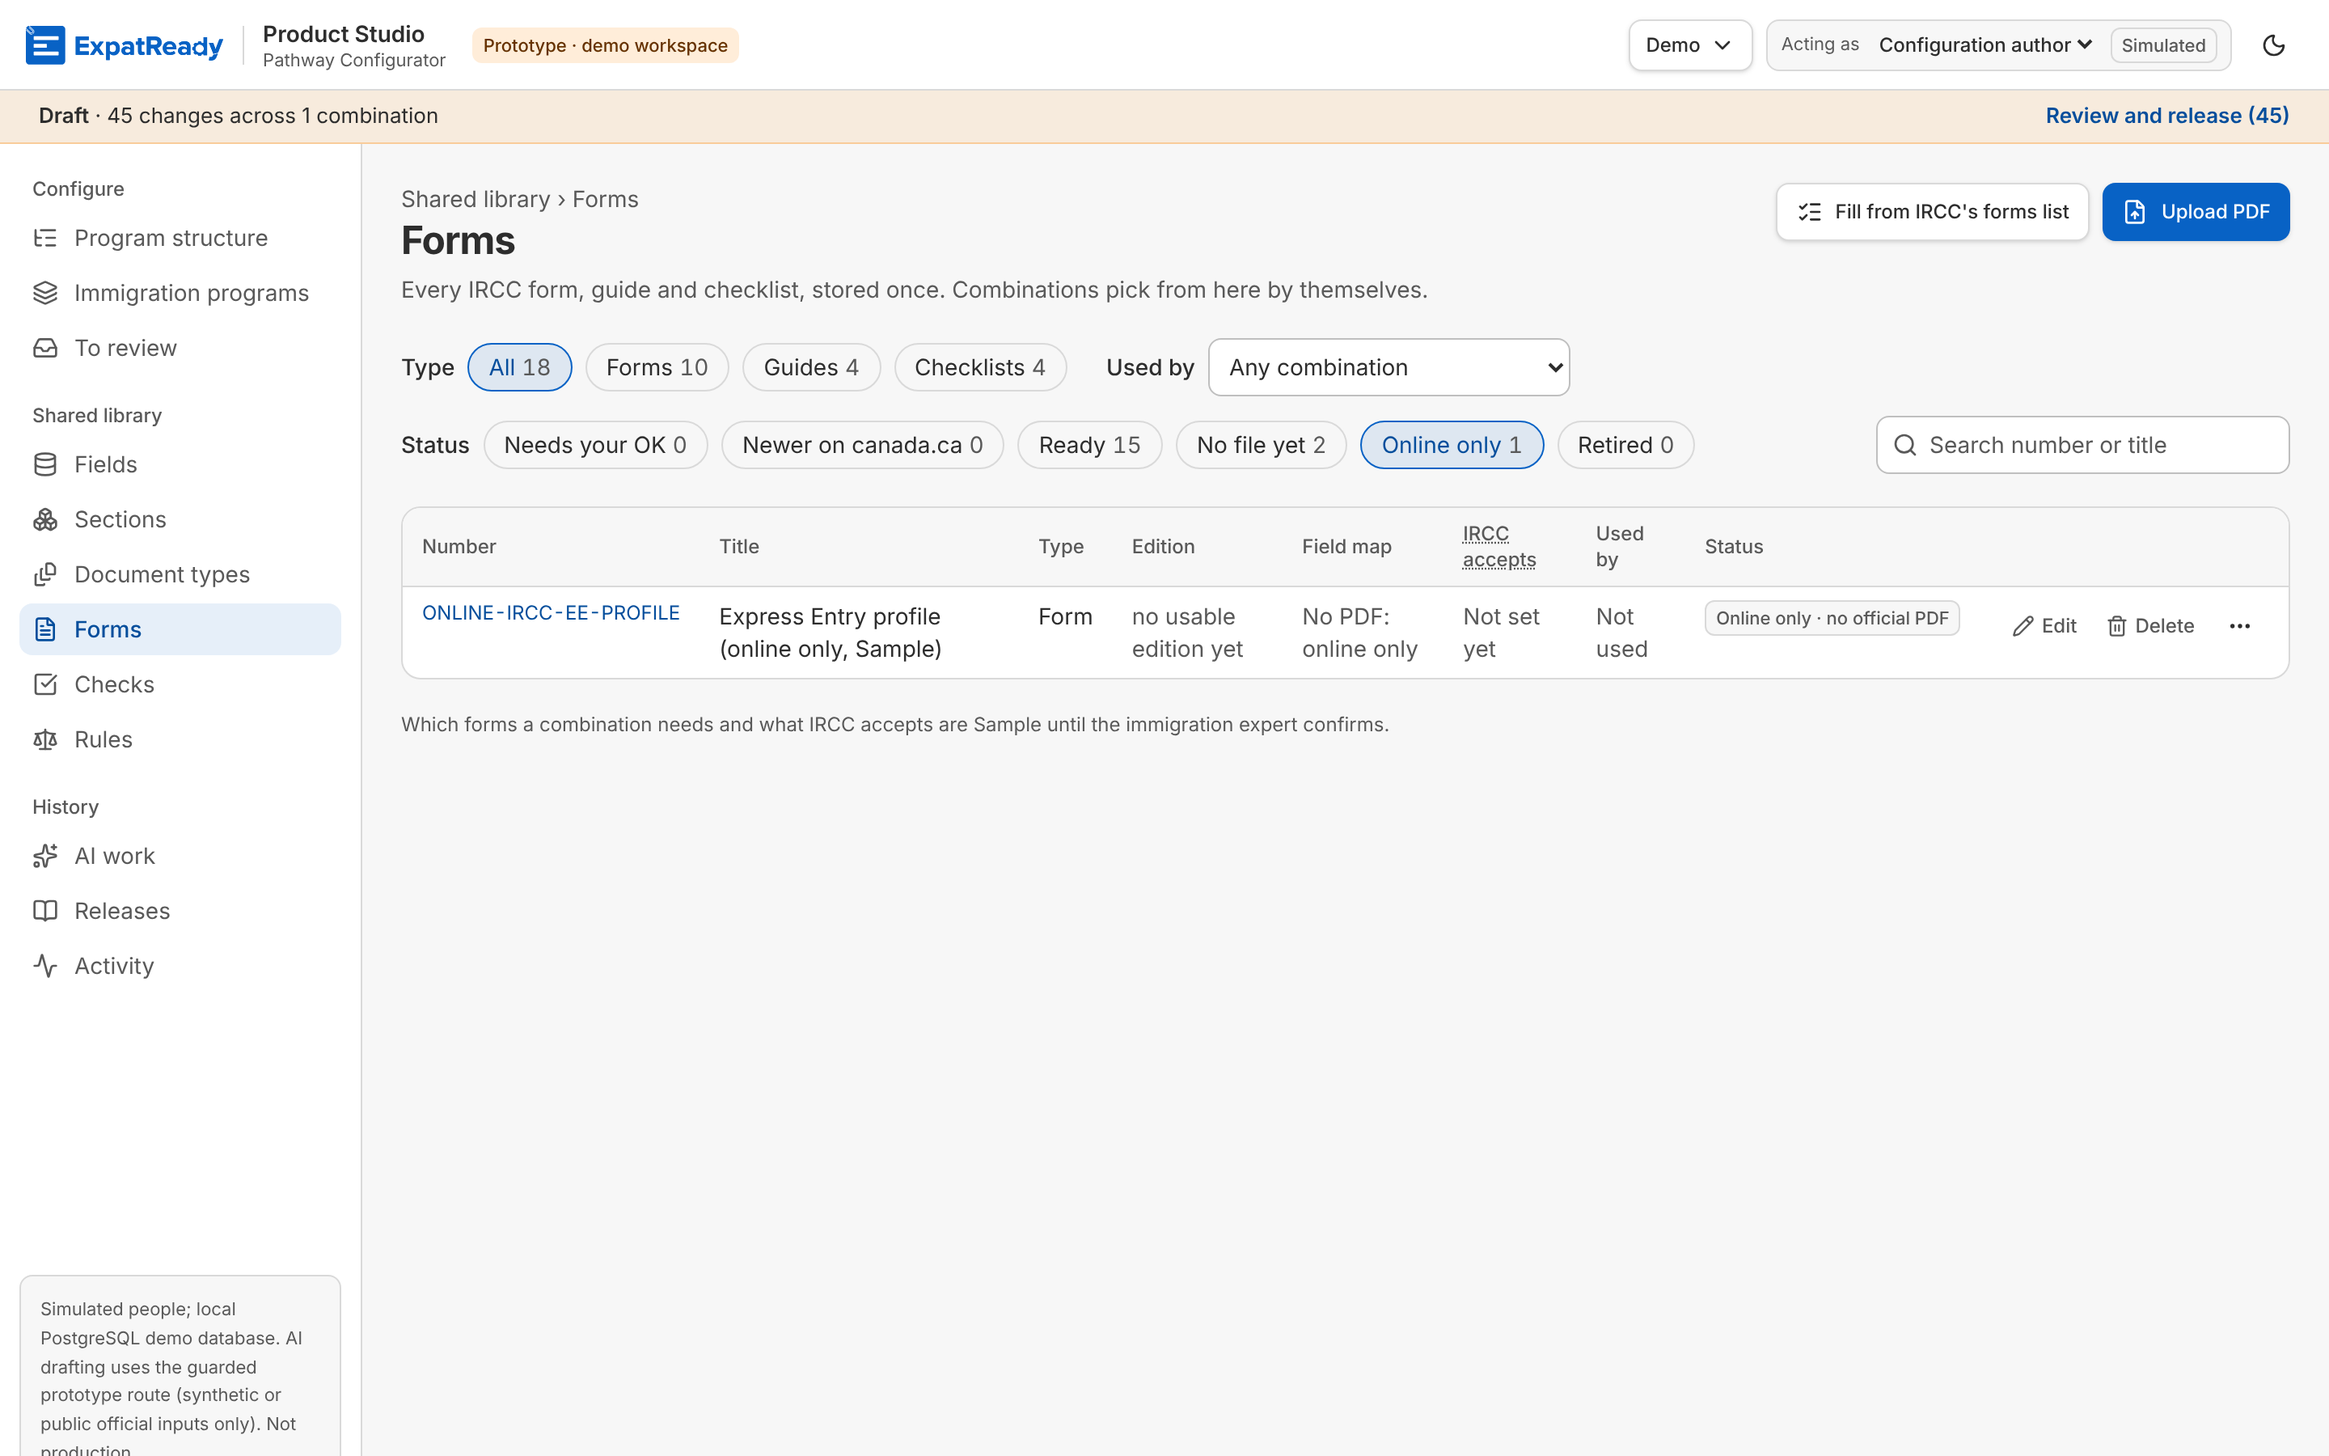
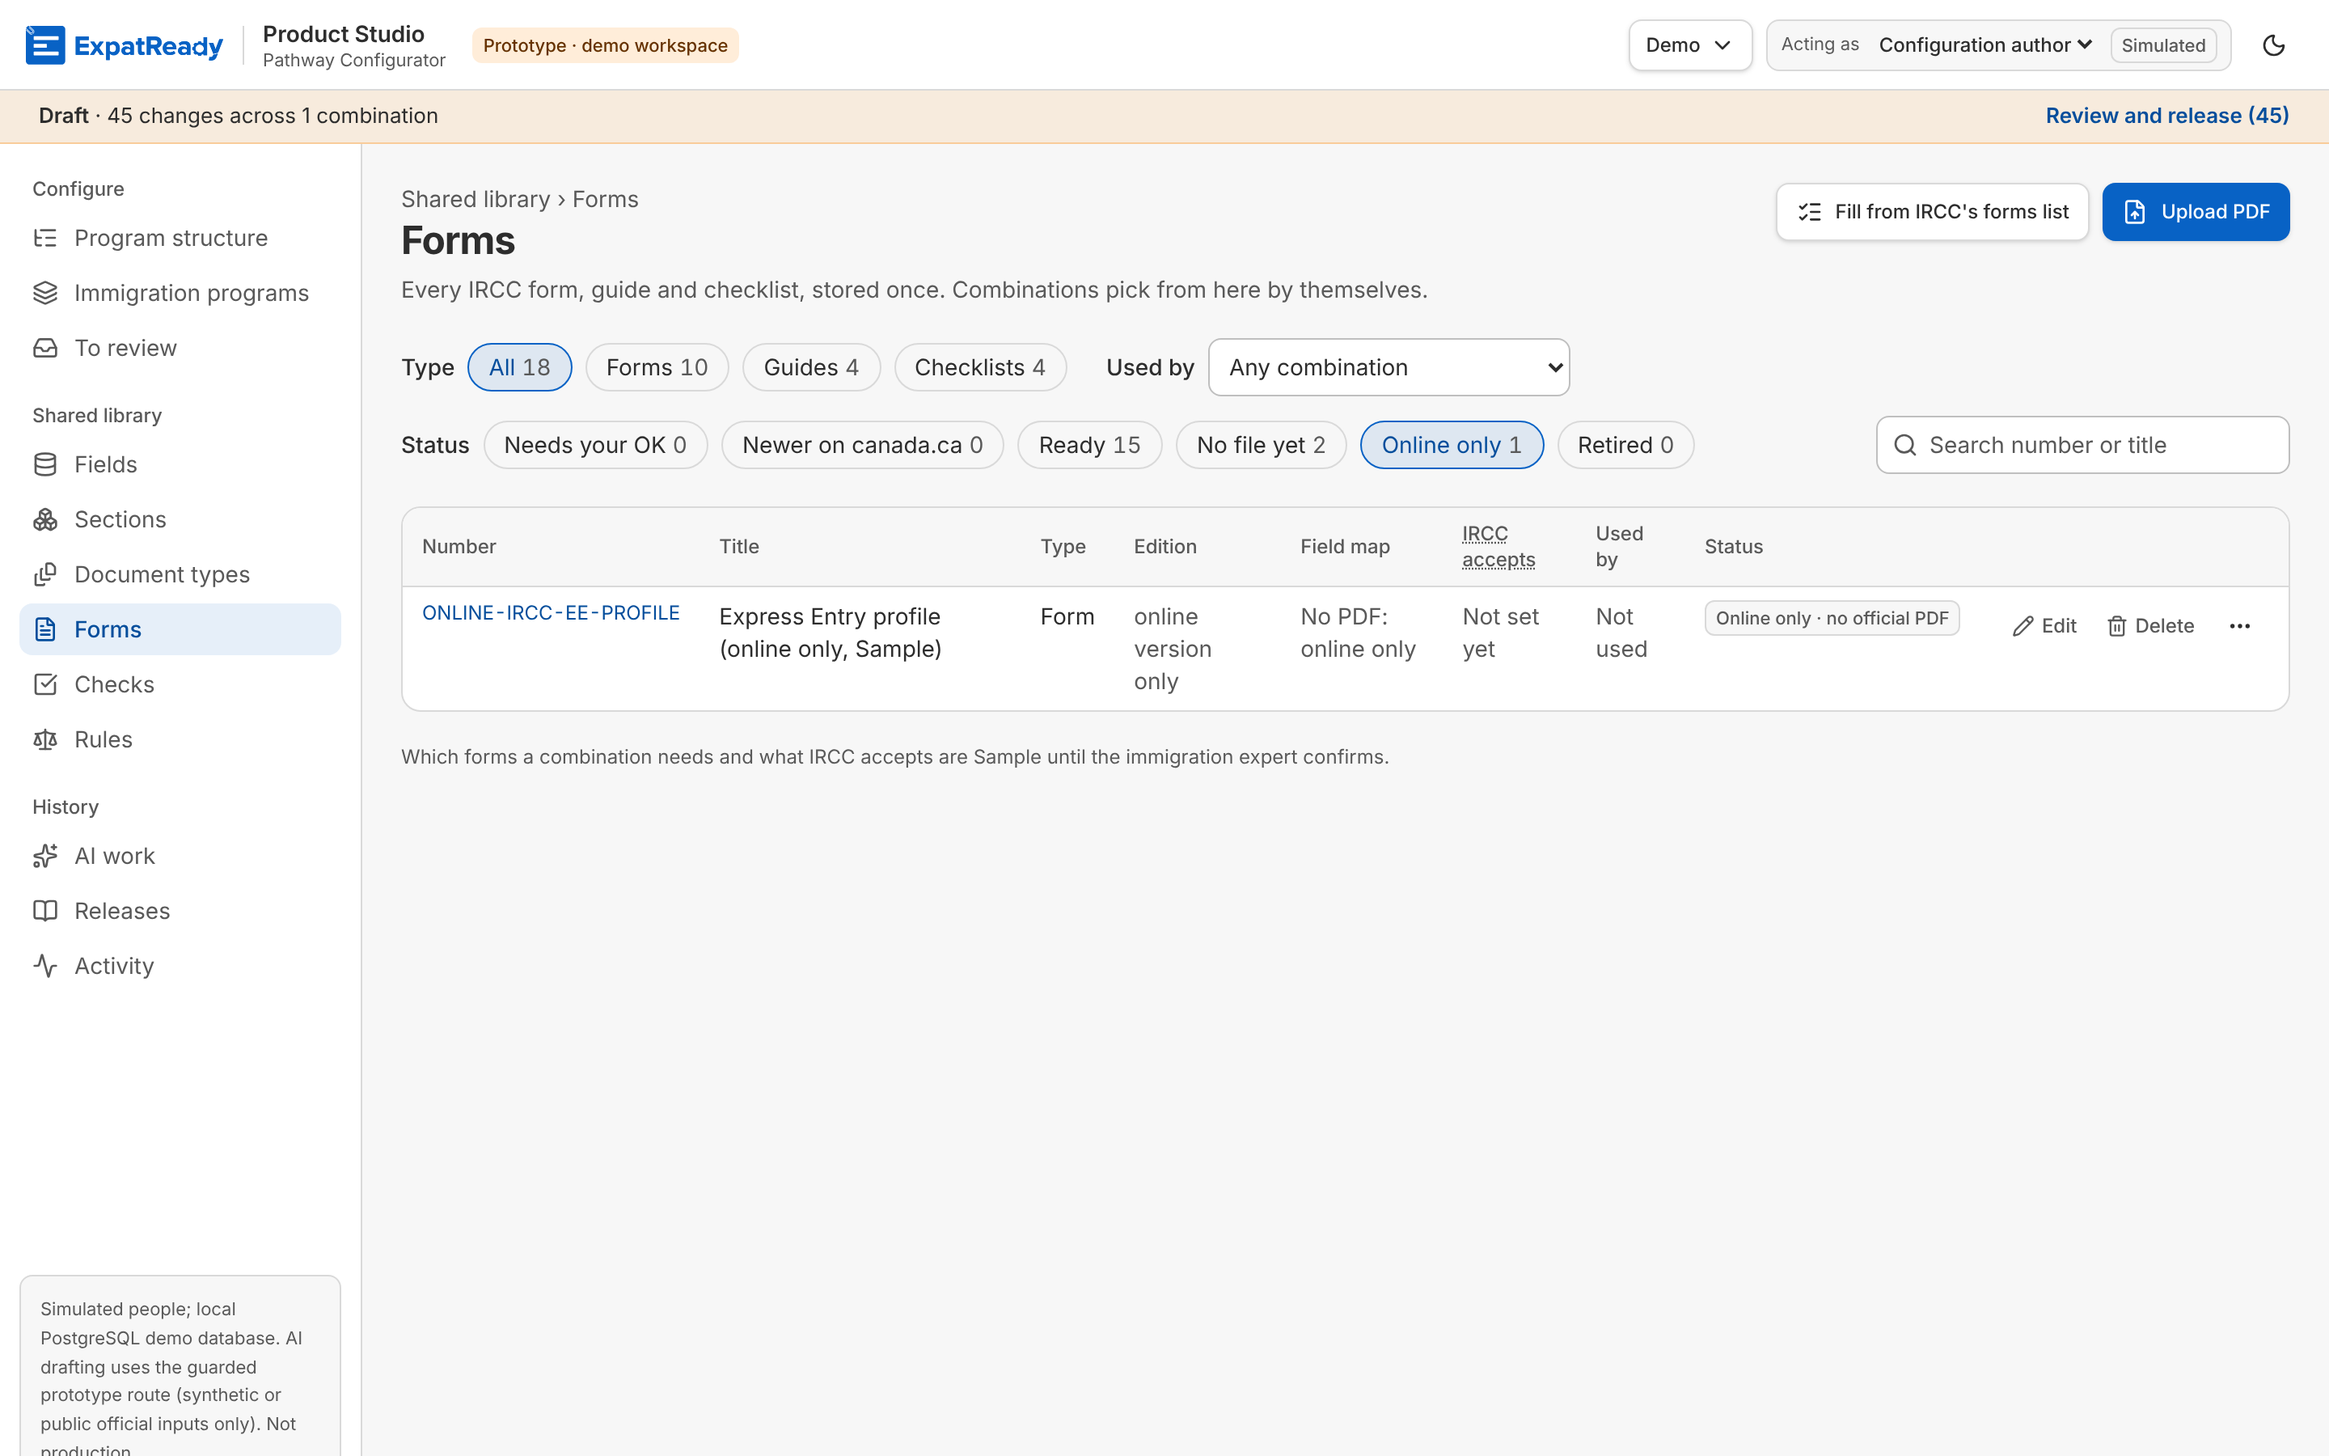
forms: C11.11 — review minors: bulk preview refuses a kept checklist line; online-only tips without a decision number or an uncited IRCC claim; screenshots retaken
Review (Approve on 577255c91) m1: the bulk preview said 'will add' for a guide or
checklist line kept from before, which apply then refused; libraryBlock now uses
the same rule (fail test in check_x2b_bulk_preview.ts: 66/67 without, 67/67 with).
m3: screenshots retaken on a fresh build ('online version only'). Wording: the
online-only tips no longer show P-152 and describe what the library holds.

Claude-Session: https://claude.ai/code/session_01MXNda75A1jSoynPHYKHZjG

Changed region(s): [[0.1875, 0.4044, 0.5938, 0.5289], [0.5625, 0.3733, 0.625, 0.4667], [0.4375, 0.3733, 0.4688, 0.4356]]

diff --git a/ai-workers/problem-1-pathway-setup-and-form-filling/prototype/studio/tests/check_x2b_bulk_preview.ts b/ai-workers/problem-1-pathway-setup-and-form-filling/prototype/studio/tests/check_x2b_bulk_preview.ts
@@ -123,6 +123,14 @@ const PLAIN = (s: string) => !/\bP-\d+\b/.test(s) && !/\b[a-z]+_[a-z_]+\b/.test(
   x = await outcomeOf(add(form("IMM 1295")), SV);
   ok("C1.5 BR-C1 retirement open fail: nothing new may use a form whose retirement waits on To review", x.o === "CANNOT_RETIRED" && /open on To review/.test(x.why), x.why);
   sql(`delete from library_change where key='IMM 1295' and action='RETIRE'`);
+  // C11.11 review m1: a checklist line kept from before (test input, SQL, Sample) is never offered as "will add": apply would
+  // refuse it (addFormLine), so the preview says why first; a filed form from the same source still will be added.
+  sql(`insert into combination_form select (jsonb_populate_record(null::combination_form, to_jsonb(cf) || jsonb_build_object('id', gen_random_uuid(), 'lineage_key', 'IMM 5488', 'gov_form_def_id', (select id from gov_form_def d where d.form_key='IMM 5488' and d.workspace_id=cf.workspace_id), 'version', 1, 'status', 'DRAFT', 'supersedes_id', null))).* from combination_form cf where cf.combination_id='${WP}' and cf.lineage_key='IMM 5707' order by cf.version desc limit 1`);
+  x = await outcomeOf(add(form("IMM 5488")), SV);
+  ok("C11.11 review m1 fail: copying a checklist line kept from before is 'Cannot', in words (read by AI and never filed)", x.o === "CANNOT_RETIRED" && /checklist: it is read by AI and never filed/.test(x.why) && !x.t.tickable, x.t);
+  sql(`delete from combination_form where combination_id='${WP}' and lineage_key='IMM 5488'`);
+  x = await outcomeOf(add(form("IMM 1295")), SV);
+  ok("C11.11 review m1 pass: a filed form from the same combination will still be added", x.o === "WILL_ADD", x.o);
 
   // waits: submitted for review
   sql(`insert into review_submission (id, workspace_id, combination_id, draft_sha256, submitted_by, status, change_summary) values (gen_random_uuid(), '${ws}', '${SV}', 'x2b-test', 'user-A', 'SUBMITTED', '[]')`);

diff --git a/ai-workers/problem-1-pathway-setup-and-form-filling/prototype/studio/api/src/lines-bulk.ts b/ai-workers/problem-1-pathway-setup-and-form-filling/prototype/studio/api/src/lines-bulk.ts
@@ -14,6 +14,7 @@ import { appliedWords, BulkApply, BulkPreview, copiedFromWords, CopyFromApply, C
 import { isBusy } from "./busy.ts";
 import { ACTORS, actorOf, Audit, Db, need, revise, strip, type Actor } from "./core.ts";
 import { addFormLine } from "./form-lines.ts";
+import { notFiledWords } from "../../engine/form-type.ts";
 import { closingChange, hasApprovedFile, lineSig, recordAction, snapshotLines, type LineRow } from "./form-uses.ts";
 
 type H = string | undefined;
@@ -424,7 +425,11 @@ export class LinesBulk {
   /** BR-C1 "cannot: retired": nothing new may use a form or document type that is retired, or whose retirement is open (P-116). */
   private async libraryBlock(db: Tx, workspaceId: string, line: SourceLine): Promise<string | null> {
     if (line.kind === "form") {
-      const def = await db.govFormDef.findUnique({ where: { workspaceId_formKey: { workspaceId, formKey: line.key } }, select: { retiredAt: true } });
+      const def = await db.govFormDef.findUnique({ where: { workspaceId_formKey: { workspaceId, formKey: line.key } }, select: { retiredAt: true, formKind: true, displayName: true } });
+      // C11.11 review m1: a guide or checklist line kept from before is never copied as a filed line (addFormLine refuses
+      // it at apply), so the preview says so first.
+      const notFiled = def ? notFiledWords(line.key, def.formKind, def.displayName) : null;
+      if (notFiled) return notFiled;
       if (def?.retiredAt) return `${line.key} is retired in the library: restore it there first.`;
       const closing = await closingChange(db, workspaceId, line.key);
       return closing ? `A request to ${closing.action.toLowerCase()} ${line.key} is open on To review: nothing new may use it until it is decided.` : null;

diff --git a/ai-workers/problem-1-pathway-setup-and-form-filling/prototype/studio/web/src/pages/library-forms.tsx b/ai-workers/problem-1-pathway-setup-and-form-filling/prototype/studio/web/src/pages/library-forms.tsx
@@ -62,7 +62,7 @@ const STATUS: Record<Row["status"], { word: string; tone: string; tip: string }>
   needs_ok: { word: "Needs your OK", tone: "warn", tip: "A file of this form waits for a second person on To review (a hand upload, or a newer edition to review)." },
   newer_file: { word: "Newer file on canada.ca", tone: "warn", tip: "canada.ca now serves another file of the same printed edition. Combinations keep using the library's file until a person replaces it." },
   no_file: { word: "No file yet", tone: "neutral", tip: "No edition of this form is in the library yet: upload its PDF, or let the form finder download it from canada.ca." },
-  online_only: { word: "Online only · no official PDF", tone: "neutral", tip: "IRCC publishes no PDF of this form: it is held as its online version, and its questions come from IRCC's help pages or saved portal screens (P-152). No PDF is asked for." },
+  online_only: { word: "Online only · no official PDF", tone: "neutral", tip: "This form is held only as its online version, with no official PDF: its questions come from IRCC's help pages or saved portal screens. No PDF is asked for." },
   retired: { word: "Retired", tone: "neutral", tip: "Hidden from pickers and AI; released versions and open cases keep it. Restore it to use it again." },
 };
 /** X5 (P-156 (1)): the words of a row filled from IRCC's forms list, beside the usual ones. */

diff --git a/ai-workers/problem-1-pathway-setup-and-form-filling/prototype/studio/api/src/form-library.ts b/ai-workers/problem-1-pathway-setup-and-form-filling/prototype/studio/api/src/form-library.ts
@@ -41,7 +41,7 @@ const nameOf = (id: string) => ACTORS.find((a) => a.id === id)?.name ?? "another
 const TYPE_OF = libraryType;
 /** P-152 (2): the flag a form held only online carries in the library, in the founder's words. */
 const ONLINE_ONLY_WORDS = "Online only · no official PDF";
-const ONLINE_ONLY_FIELD_MAP = { kind: "no_edition" as const, decided: 0, total: 0, words: "No PDF: online only", tip: "This form is held only as its online version, with no official PDF: its questions come from IRCC's help pages or saved portal screens (P-152), not from a PDF." };
+const ONLINE_ONLY_FIELD_MAP = { kind: "no_edition" as const, decided: 0, total: 0, words: "No PDF: online only", tip: "This form is held only as its online version, with no official PDF: its field map is drafted from IRCC's help pages or saved portal screens, not from a PDF." };
 
 /** P-143 (C-3): a form's records of what IRCC accepts, per IRCC account, for the Form library row (ANY first). A guide
  *  or checklist is read by AI and never filed. */

diff --git a/ai-workers/problem-1-pathway-setup-and-form-filling/product/screens/C11.11/review.md b/ai-workers/problem-1-pathway-setup-and-form-filling/product/screens/C11.11/review.md
@@ -1,0 +1,37 @@
+# C11.11 review (forms lane): checklists never filed, online-only status
+
+Reviewed commit: **577255c91** (branch claude/epic-wright-62f5h5). It is 959714a67 plus two screenshots; `git diff 959714a67 577255c91` has no code change, so the code review of 959714a67 stands. Base origin/main 877acf66a.
+
+Verdict: **Approve** (no Blocker, no Major; two Minors and a screenshot note below).
+
+## What I ran (isolated copy, port 4454, live AI off, US$0)
+- `acceptance/C11.11.test.ts`: 26 passed, 0 failed. `acceptance/C1.6.test.ts`: 23 passed, 0 failed.
+- Loaded sample, checked by API and SQL: With an LMIA has six filed lines (IMM 1295, 5257 SCH1, 5409, 5475, 5476, 5707) and IMM 5802 only as a RETIRED imported line. IMM 5488 and IMM 5905 show in the library as checklists, `used_by ... as_source: true` for With an LMIA; IMM 5484 and 5881 as sources of Visitor visa. IMM 5802 (kind "document", title "Offer of employment form") is still type form. Counts: form 10, guide 4, checklist 4, online_only 1, no_file 2.
+- Every `combination_form` creation path: all attach routes (library "+ Add" form-library.ts:362, programs.ts addLine, intake upload-for-row, finder AI apply, bulk copy, sources.ts AI proposal and reuse) go through `addFormLine` (form-lines.ts:28-31), which now refuses a non-form with 409; the by-hand route also refuses before the file checks (form-library.ts:352). `programs.addLine` sends a checklist to the source path (programs.ts:560). The release import skips it (engine/import.ts:92). Remaining raw writers (form-library.ts:447, lines-bulk.ts:375) are undo restores of existing rows, not new lines.
+- Explicit `any` added in api/engine/contracts/web: none. I could not run a full tsc (no root tsconfig at the app folder); the 26 and 23 passes ran through tsx only.
+- Edited tests (check_c46_*, check_s5_slice1*, check_screen01_channels, check_uxa1, check_x2b_bulk_*, check_forms_s4_library_browser, C1.6): read every hunk. They swap the fixture from IMM 5488 (no longer a line) to IMM 1295 or IMM 5475 and keep the same assertions, or update counts (8 to 6 forms, "2 document checklists" gone) with a positive check that the checklist is absent. Where the old checks needed a checklist line (no-channel, card filing) they plant one by SQL, so those rules still have a test. Not weakened. I did not run the browser (.cjs) suites.
+
+## Findings
+
+### Blocker
+None.
+
+### Major
+None.
+
+### Minor
+1. **Bulk preview says "will add" for a checklist line, apply then refuses.** `api/src/lines-bulk.ts:426-429` (`libraryBlock`) checks retired and closing only, not the new "not filed" rule, while `write()` at lines-bulk.ts:239 calls `addFormLine`, which now throws 409. Scenario, reproduced: plant a legacy IMM 5488 line on With an LMIA (a database loaded before this change still has one), then POST /lines/bulk/preview adding it to Visitor visa returns `WILL_ADD, tickable: true, cannot: 0`. Ticking it and applying fails the whole batch with the 409 in words instead of the preview showing "cannot". Only reachable with pre-existing data, no new line can be created, and the refusal is in words, so Minor. Fix: add `notFiledWords` to `libraryBlock` for forms.
+2. **Type rule is a title heuristic.** engine/form-type.ts:7: a "document"-kind row is a form only if its title contains "form" and not "checklist". IMM 5802 passes by its title alone. Any real form uploaded without a field map whose title lacks "form" (intake.ts:354 stores such files as "document") is now refused as a filed line ("is a checklist") and falls to the source path in addLine, where before it could be added. Same rule as the library's displayed type, so consistent, and no such row is in the sample; flag for the immigration expert, not a change request.
+
+### Screenshot note (Minor, evidence only)
+`screens/C11.11/c1111-online-only-1440.png` and `-400.png` show the Edition cell and the 400 px short line as "no usable edition yet" for ONLINE-IRCC-EE-PROFILE. The code at web/src/pages/library-forms.tsx (the two edited cells) renders "online version only" for status online_only, and the built `web/dist` contains that string. So the screenshots were taken from a web build older than the code at this commit. They do prove the status pill "Online only · no official PDF", the "Online only 1" filter chip, "No PDF: online only" in the Field map cell and "Not used", and that no upload-its-PDF step is offered. At 400 px the Status pill is off-screen in the horizontally scrolled table (the existing table behaviour, not new here). Retake both so the picture matches the code.
+
+## Words and sourcing
+- Refusal: "IMM 5484 is a checklist: it is read by AI and never filed, so it is not one of a combination's forms. It stays in the library, and a combination uses it as a source." Plain, no codes. Tooltip for online_only cites P-152 in text shown to people ("P-152") in the tooltip and field-map tip (library-forms.tsx STATUS.online_only, form-library.ts ONLINE_ONLY_FIELD_MAP): a decision id in user-facing text; Minor wording, consistent with older tips that already do this.
+- Sourcing (P-170): the claim about IMM 5484 and IMM 5488 ("You do not need to submit this PDF checklist") is quoted in the code comment and the qa note with canada.ca pages and "recorded 19 Oct 2026". The quote sits in engine/form-type.ts:12-14 with no page URL or retrieval date beside it in the code; the URL is in the recorded official-sources web pages. I did not re-fetch canada.ca. Product rule (P-118, QA-101) is the founder's, not an IRCC claim.
+- Release 1: import skips checklist lines, so the release holds six lines for With an LMIA; its source entries are cited only for numbers on lines present, so none are lost for IMM 5488/5905 as far as the sample shows (not diffed against main's Release 1 byte for byte).
+
+## Not checked
+Browser suites (.cjs), keyboard-only and 200 % zoom pass, a byte comparison of Release 1 against main, canada.ca live pages.
+
+**Verdict: Approve** (for 577255c91; fix list: Minor 1, retake the two screenshots)
